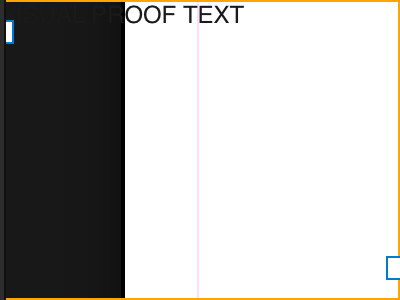
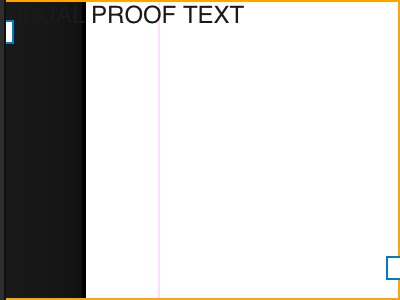
chore: clean up diagnostic logs and finalize CI fixes

diff --git a/apps/web/playwright-report/index.html b/apps/web/playwright-report/index.html
@@ -87,4 +87,4 @@ Error generating stack: `+l.message+`
     <div id='root'></div>
   </body>
 </html>
[2 lines of base64/hex data omitted]

diff --git a/apps/web/src/lib/components/workspace/Workspace.svelte b/apps/web/src/lib/components/workspace/Workspace.svelte
@@ -15,7 +15,7 @@
     onResizeMouseDown,
     onContentHandleMouseDown
   }: {
-    onPageMouseDown: (e: MouseEvent, page: Page) => void,
+    onPageMouseDown: (e: MouseEvent, page: Page, el: HTMLElement) => void,
     onFrameMouseDown: (e: MouseEvent, frame: Frame) => void,
     onPortMouseDown: (e: MouseEvent, id: string) => void,
     onRulerMouseDown: (e: MouseEvent, orientation: Orientation) => void,
@@ -73,7 +73,11 @@
           <div 
             class="page" 
             style="width: {page.width}px; height: {page.height}px;" 
-            onmousedown={(e) => { e.stopPropagation(); onPageMouseDown(e, page); }}
+            onmousedown={(e) => { 
+              const el = e.currentTarget as HTMLElement;
+              e.stopPropagation(); 
+              onPageMouseDown(e, page, el); 
+            }}
           >
             {#if uiStore.snapX !== null}<div class="snap-guide vertical" style="left: {uiStore.snapX}px"></div>{/if}
             {#if uiStore.snapY !== null}<div class="snap-guide horizontal" style="top: {uiStore.snapY}px"></div>{/if}
@@ -111,57 +115,54 @@
               {@render ParentContent(page, page.applied_parent_id, pageIdxInSpread)}
             {/if}
 
-            {#each docStore.doc.layers as layer (layer.id)}
-              {#if layer.visible}
-                {#each page.frames as frame (frame.id)}
-                  {#if frame.layer_id === layer.id}
-                    <div 
-                      class="frame-container" 
-                      class:selected={uiStore.selectedFrameIds.includes(frame.id)} 
-                      class:content-mode={uiStore.isContentMode && uiStore.selectedFrameIds.includes(frame.id)} 
-                      style="left: {frame.x}px; top: {frame.y}px; width: {frame.width}px; height: {frame.height}px; transform: rotate({frame.rotation}deg); --layer-color: {layer.color};"
-                    >
-                      <div 
-                        class="frame-content" 
-                        onmousedown={(e) => onFrameMouseDown(e, frame)} 
-                        ondblclick={() => { if (frame.data.Text) uiStore.isContentMode = true; }}
-                        style="background: {frame.fill_color ? getSwatchColor(frame.fill_color, docStore.doc) : 'transparent'}; border: {frame.stroke_width}px solid {frame.stroke_color ? getSwatchColor(frame.stroke_color, docStore.doc) : 'transparent'}; {frame.data.Text ? `font-size: ${frame.data.Text.font_size_override ?? (docStore.doc.styles.paragraph_styles.find(s => s.name === frame.data.Text?.paragraph_style) || docStore.doc.styles.paragraph_styles[0]).font_size ?? 12}px;` : ''}"
-                      >
-                        {#if frame.data.Text}
-                          {#if uiStore.isContentMode && uiStore.selectedFrameIds.includes(frame.id)}
-                            <textarea
-                              class="inline-editor"
-                              bind:value={frame.data.Text.content}
-                              oninput={() => { if (frame.data.Text?.frame_type === 'Point') docStore.convertTextFrameType(frame, 'Point'); docStore.markModified(); }}
-                              onmousedown={(e) => e.stopPropagation()}
-                              onkeydown={(e) => { if (e.key === 'Escape') { e.stopPropagation(); uiStore.isContentMode = false; } }}
-                              use:focusOnMount
-                            ></textarea>
-                          {:else}
-                            <div class="text-content-wrapper">
-                              {frame.data.Text.content}
-                            </div>
-                          {/if}
-                          
-                          <!-- Overflow Indicator -->
-                          {#if frame.data.Text.frame_type === 'Area' && !uiStore.isContentMode}
-                            <div class="overflow-indicator" title="Textüberlauf!"></div>
-                          {/if}
-                        {:else if frame.data.Image}
-                          <div class="image-content" style="transform: translate({frame.data.Image.content_x}px, {frame.data.Image.content_y}px) scale({frame.data.Image.content_scale_x}, {frame.data.Image.content_scale_y});">
-                            <div class="image-placeholder">{#if frame.data.Image.asset_path}Bild{:else}Kein Bild{/if}</div>
-                          </div>
-                        {:else if frame.data.Group}
-                          <div class="group-content">
-                            {#each frame.data.Group.frames as c}
-                              <div class="frame-preview" style="left: {c.x}px; top: {c.y}px; width: {c.width}px; height: {c.height}px;"></div>
-                            {/each}
-                          </div>
-                        {/if}
+            {#each page.frames as frame (frame.id)}
+              {@const layer = docStore.doc.layers.find(l => l.id === frame.layer_id)}
+              {#if !layer || layer.visible}
+                <div 
+                  class="frame frame-container" 
+                  class:selected={uiStore.selectedFrameIds.includes(frame.id)} 
+                  class:content-mode={uiStore.isContentMode && uiStore.selectedFrameIds.includes(frame.id)} 
+                  onmousedown={(e) => onFrameMouseDown(e, frame)} 
+                  ondblclick={() => { if (frame.data.Text) uiStore.isContentMode = true; }}
+                  style="left: {frame.x}px; top: {frame.y}px; width: {frame.width}px; height: {frame.height}px; transform: rotate({frame.rotation}deg); --layer-color: {layer?.color ?? '#007acc'};"
+                >
+                  <div 
+                    class="frame-content" 
+                    style="background: {frame.fill_color ? getSwatchColor(frame.fill_color, docStore.doc) : 'transparent'}; border: {frame.stroke_width}px solid {frame.stroke_color ? getSwatchColor(frame.stroke_color, docStore.doc) : 'transparent'}; {frame.data.Text ? `font-size: ${frame.data.Text.font_size_override ?? (docStore.doc.styles.paragraph_styles.find(s => s.name === frame.data.Text?.paragraph_style) || docStore.doc.styles.paragraph_styles[0]).font_size ?? 12}px;` : ''}"
+                  >
+                    {#if frame.data.Text}
+                      {#if uiStore.isContentMode && uiStore.selectedFrameIds.includes(frame.id)}
+                        <textarea
+                          class="inline-editor"
+                          bind:value={frame.data.Text.content}
+                          oninput={() => { if (frame.data.Text?.frame_type === 'Point') docStore.convertTextFrameType(frame, 'Point'); docStore.markModified(); }}
+                          onmousedown={(e) => e.stopPropagation()}
+                          onkeydown={(e) => { if (e.key === 'Escape') { e.stopPropagation(); uiStore.isContentMode = false; } }}
+                          use:focusOnMount
+                        ></textarea>
+                      {:else}
+                        <div class="text-content-wrapper">
+                          {frame.data.Text.content}
+                        </div>
+                      {/if}
+                      
+                      <!-- Overflow Indicator -->
+                      {#if frame.data.Text.frame_type === 'Area' && !uiStore.isContentMode}
+                        <div class="overflow-indicator" title="Textüberlauf!"></div>
+                      {/if}
+                    {:else if frame.data.Image}
+                      <div class="image-content" style="transform: translate({frame.data.Image.content_x}px, {frame.data.Image.content_y}px) scale({frame.data.Image.content_scale_x}, {frame.data.Image.content_scale_y});">
+                        <div class="image-placeholder">{#if frame.data.Image.asset_path}Bild{:else}Kein Bild{/if}</div>
                       </div>
-                    </div>
-                  {/if}
-                {/each}
+                    {:else if frame.data.Group}
+                      <div class="group-content">
+                        {#each frame.data.Group.frames as c}
+                          <div class="frame-preview" style="left: {c.x}px; top: {c.y}px; width: {c.width}px; height: {c.height}px;"></div>
+                        {/each}
+                      </div>
+                    {/if}
+                  </div>
+                </div>
               {/if}
             {/each}
 
@@ -201,10 +202,9 @@
 <style>
   .workspace-container { 
     flex: 1; overflow: auto; background: #181818; position: relative; padding: 60px; 
-    user-select: none; /* Prevent browser text selection on workspace */
-    -webkit-user-select: none;
+    user-select: none; -webkit-user-select: none;
   }
-  .workspace { display: flex; flex-direction: column; align-items: center; gap: 50px; }
+  .workspace { display: flex; flex-direction: column; align-items: flex-start; gap: 50px; }
   .spread { display: flex; gap: 2px; background: #000; padding: 2px; box-shadow: 0 10px 30px rgba(0,0,0,0.5); transform: scale(var(--zoom)); transform-origin: top center; }
   .page { background: white; position: relative; color: black; }
   .margin-box { position: absolute; border: 1px solid #ff00ff22; pointer-events: none; }
@@ -226,7 +226,7 @@
     position: absolute; 
     box-sizing: border-box; 
     z-index: 5;
-    pointer-events: none; /* Let events pass through to content by default */
+    pointer-events: auto; /* Catch clicks for selection */
   }
   .frame-content {
     position: absolute;
@@ -234,7 +234,7 @@
     overflow: hidden; 
     background: rgba(128, 128, 128, 0.05); 
     color: #1a1a1a;
-    pointer-events: auto; /* Content handles the interaction */
+    pointer-events: none; /* Let clicks go to the container handler */
     z-index: 1;
     outline: 1px solid rgba(128, 128, 128, 0.2); /* Subtle default outline */
     outline-offset: -1px;
@@ -275,6 +275,7 @@
     resize: none !important;
     user-select: text !important; /* Allow text selection while editing */
     -webkit-user-select: text !important;
+    pointer-events: auto; /* Always interactive */
   }
   .inline-editor:focus {
     outline: none !important;

diff --git a/apps/web/src/App.svelte b/apps/web/src/App.svelte
@@ -63,10 +63,11 @@
       if (uiStore.activeTool === 'text') {
         const area = interaction.frame.width * interaction.frame.height;
         if (area < 100) { // Tiny area means it was likely a click -> Point Text
-          interaction.frame.data.Text!.content = ""; 
+          interaction.frame.data.Text!.content = "Neuer Text"; 
           docStore.convertTextFrameType(interaction.frame, 'Point');
-          // Provide a comfortable initial width for empty frames, but height is now exact from store
           interaction.frame.width = Math.max(interaction.frame.width, 100); 
+        } else {
+          interaction.frame.data.Text!.content = "Neuer Text";
         }
         uiStore.isContentMode = true;
       }
@@ -78,7 +79,6 @@
     interaction.guide = null;
     interaction.page = null;
   }
-
 
   onMount(() => {
     prefsStore.load();
@@ -106,11 +106,12 @@
     };
   });
 
-  function startCreating(e: MouseEvent, page: Page) {
+  function startCreating(e: MouseEvent, page: Page, el: HTMLElement) {
     if (uiStore.activeTool === 'select') { uiStore.resetSelection(); return; }
+    if (!docStore.doc.layers || docStore.doc.layers.length === 0) return;
     e.stopPropagation();
     
-    const r = (e.currentTarget as HTMLElement).getBoundingClientRect();
+    const r = el.getBoundingClientRect();
     const x = (e.clientX - r.left) / uiStore.zoom;
     const y = (e.clientY - r.top) / uiStore.zoom;
     
@@ -126,7 +127,6 @@
     interaction.active = true;
     interaction.type = 'create';
     interaction.startClient = { x: e.clientX, y: e.clientY };
-    // CRITICAL FIX: Fetch the proxy object from the array instead of using the raw `nf` object
     interaction.frame = page.frames[page.frames.length - 1];
   }
 </script>

diff --git a/apps/web/tests/e2e/text_frame.spec.ts b/apps/web/tests/e2e/text_frame.spec.ts
@@ -32,11 +32,15 @@ test.describe('Text Frame Creation', () => {
     // 2. Drag on a page to create an Area Text frame
     const pageElement = page.locator('.page').first();
     await pageElement.waitFor({ state: 'visible' });
+    const pageBox = await pageElement.boundingBox();
+    if (!pageBox) throw new Error('Page box not found');
 
-    // Perform a drag from (100, 100) to (250, 150)
-    await page.mouse.move(200, 200);
+    // Perform a drag relative to page
+    const startX = pageBox.x + 100;
+    const startY = pageBox.y + 100;
+    await page.mouse.move(startX, startY);
     await page.mouse.down();
-    await page.mouse.move(350, 300);
+    await page.mouse.move(startX + 150, startY + 100);
     await page.mouse.up();
 
     // 3. Verify Area Text frame is created and selected
@@ -81,9 +85,11 @@ test.describe('Text Frame Creation', () => {
     // 2. Click on a page to create a frame
     const pageElement = page.locator('.page').first();
     await pageElement.waitFor({ state: 'visible' });
+    const pageBox = await pageElement.boundingBox();
+    if (!pageBox) throw new Error('Page box not found');
     
-    // Simple click at (150, 150)
-    await page.mouse.move(250, 250);
+    // Simple click relative to page
+    await page.mouse.move(pageBox.x + 150, pageBox.y + 150);
     await page.mouse.down();
     await page.mouse.up();
 

diff --git a/apps/web/src/lib/components/layout/SidebarRight.svelte b/apps/web/src/lib/components/layout/SidebarRight.svelte
@@ -117,6 +117,9 @@
           <input type="checkbox" bind:checked={frame.data.Text.align_to_baseline_grid} onchange={() => docStore.markModified()} /> 
           Am Grundraster ausrichten
         </label>
+        <label>Inhalt
+          <textarea bind:value={frame.data.Text.content} oninput={() => { if (frame.data.Text?.frame_type === 'Point') docStore.convertTextFrameType(frame, 'Point'); docStore.markModified(); }}></textarea>
+        </label>
       {/if}
       
       {#if frame.data.Image}
